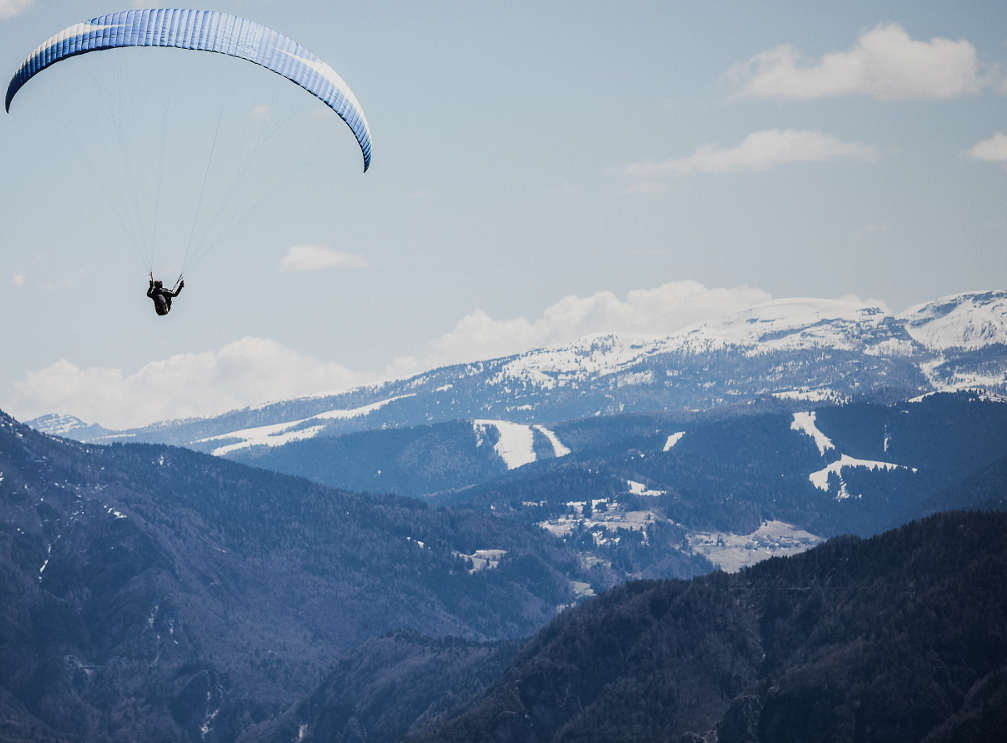
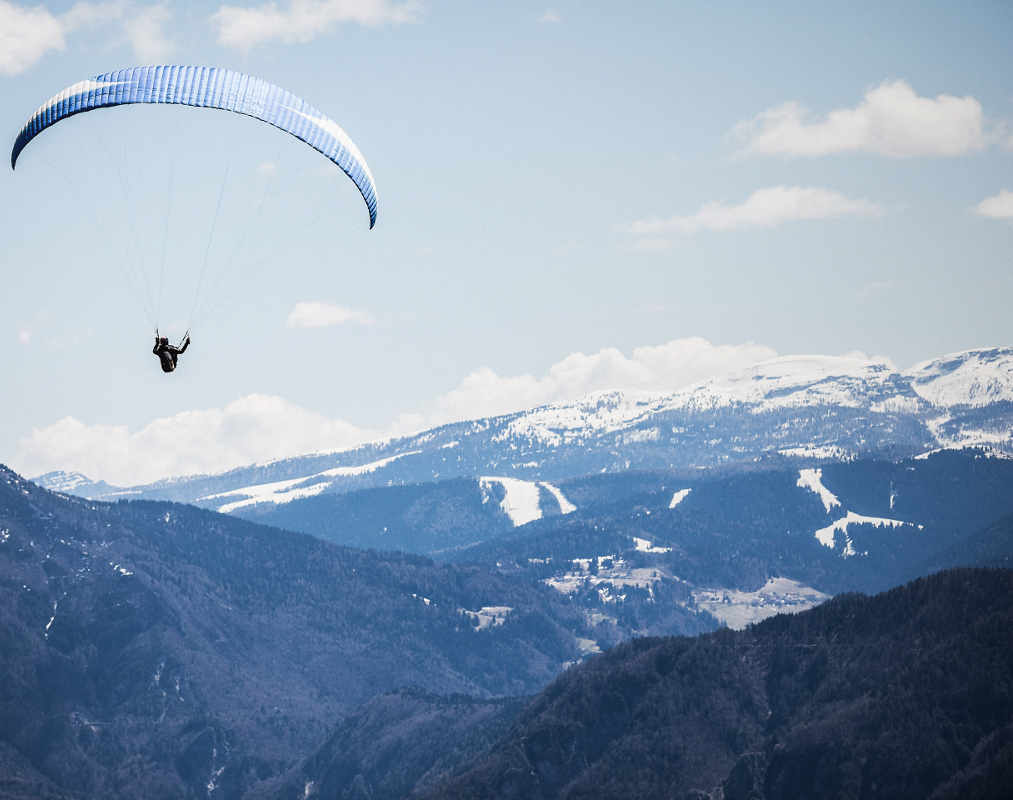
Add parallax effect to about bg

diff --git a/_sass/_home.scss b/_sass/_home.scss
@@ -54,7 +54,7 @@
   #about {
     background-image: url('../images/adventure.jpg');
     background-size: cover;
-    background-position: left top;
+    background-attachment: fixed;
 
     p {
       text-align: right;
